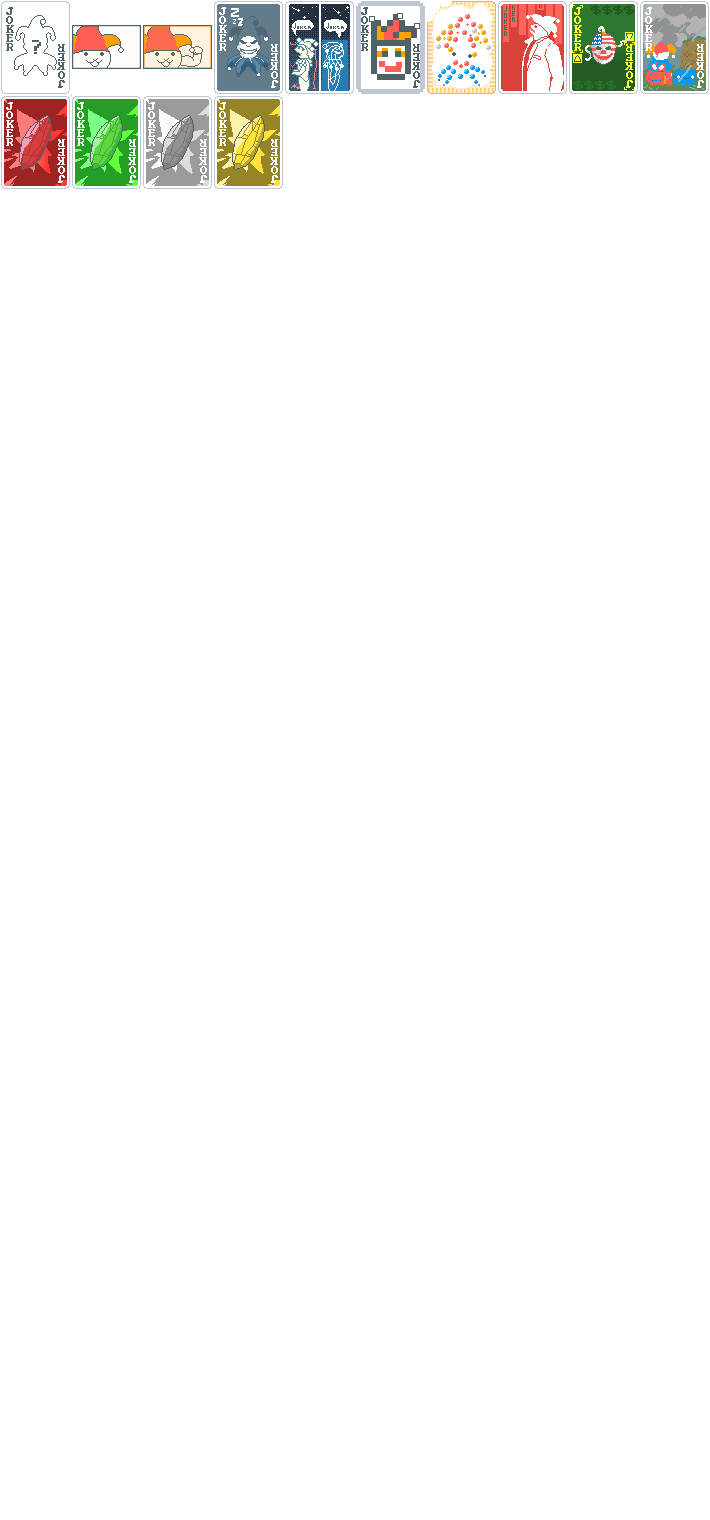
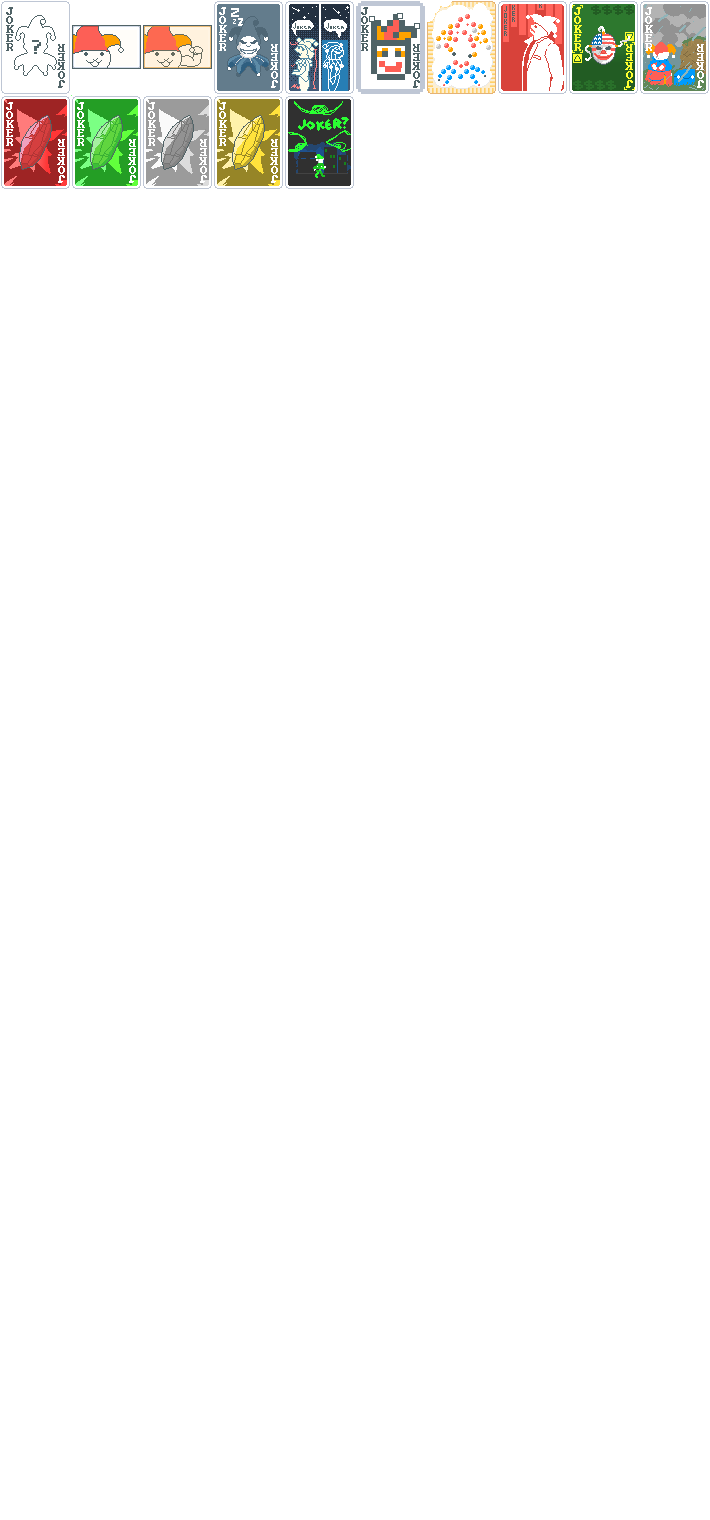
Entropy crossmod - The Knight

Changed region(s): [[0.4028, 0.0618, 0.4958, 0.1237]]

diff --git a/README.md b/README.md
@@ -3,14 +3,17 @@
 A balatro mod that adds some smart and silly additions
 (Requires [CryptLib](https://github.com/SpectralPack/Cryptlib))
 
-Currently adds:
+Currently adds (not counting crossmod content):
 - 11 Jokers
 - 2 Tarot Cards
 - 2 Enhancements
+
+Crossmod content:
+[Entropy](https://github.com/lord-ruby/Entropy) - Inverse consumables
 
 Planned content:
 - More Jokers
 - More tarots
 - More enhancements
-- Entropy and Oblivion Crossmod content
+- Oblivion Crossmod content
 - Forcetrigger support
